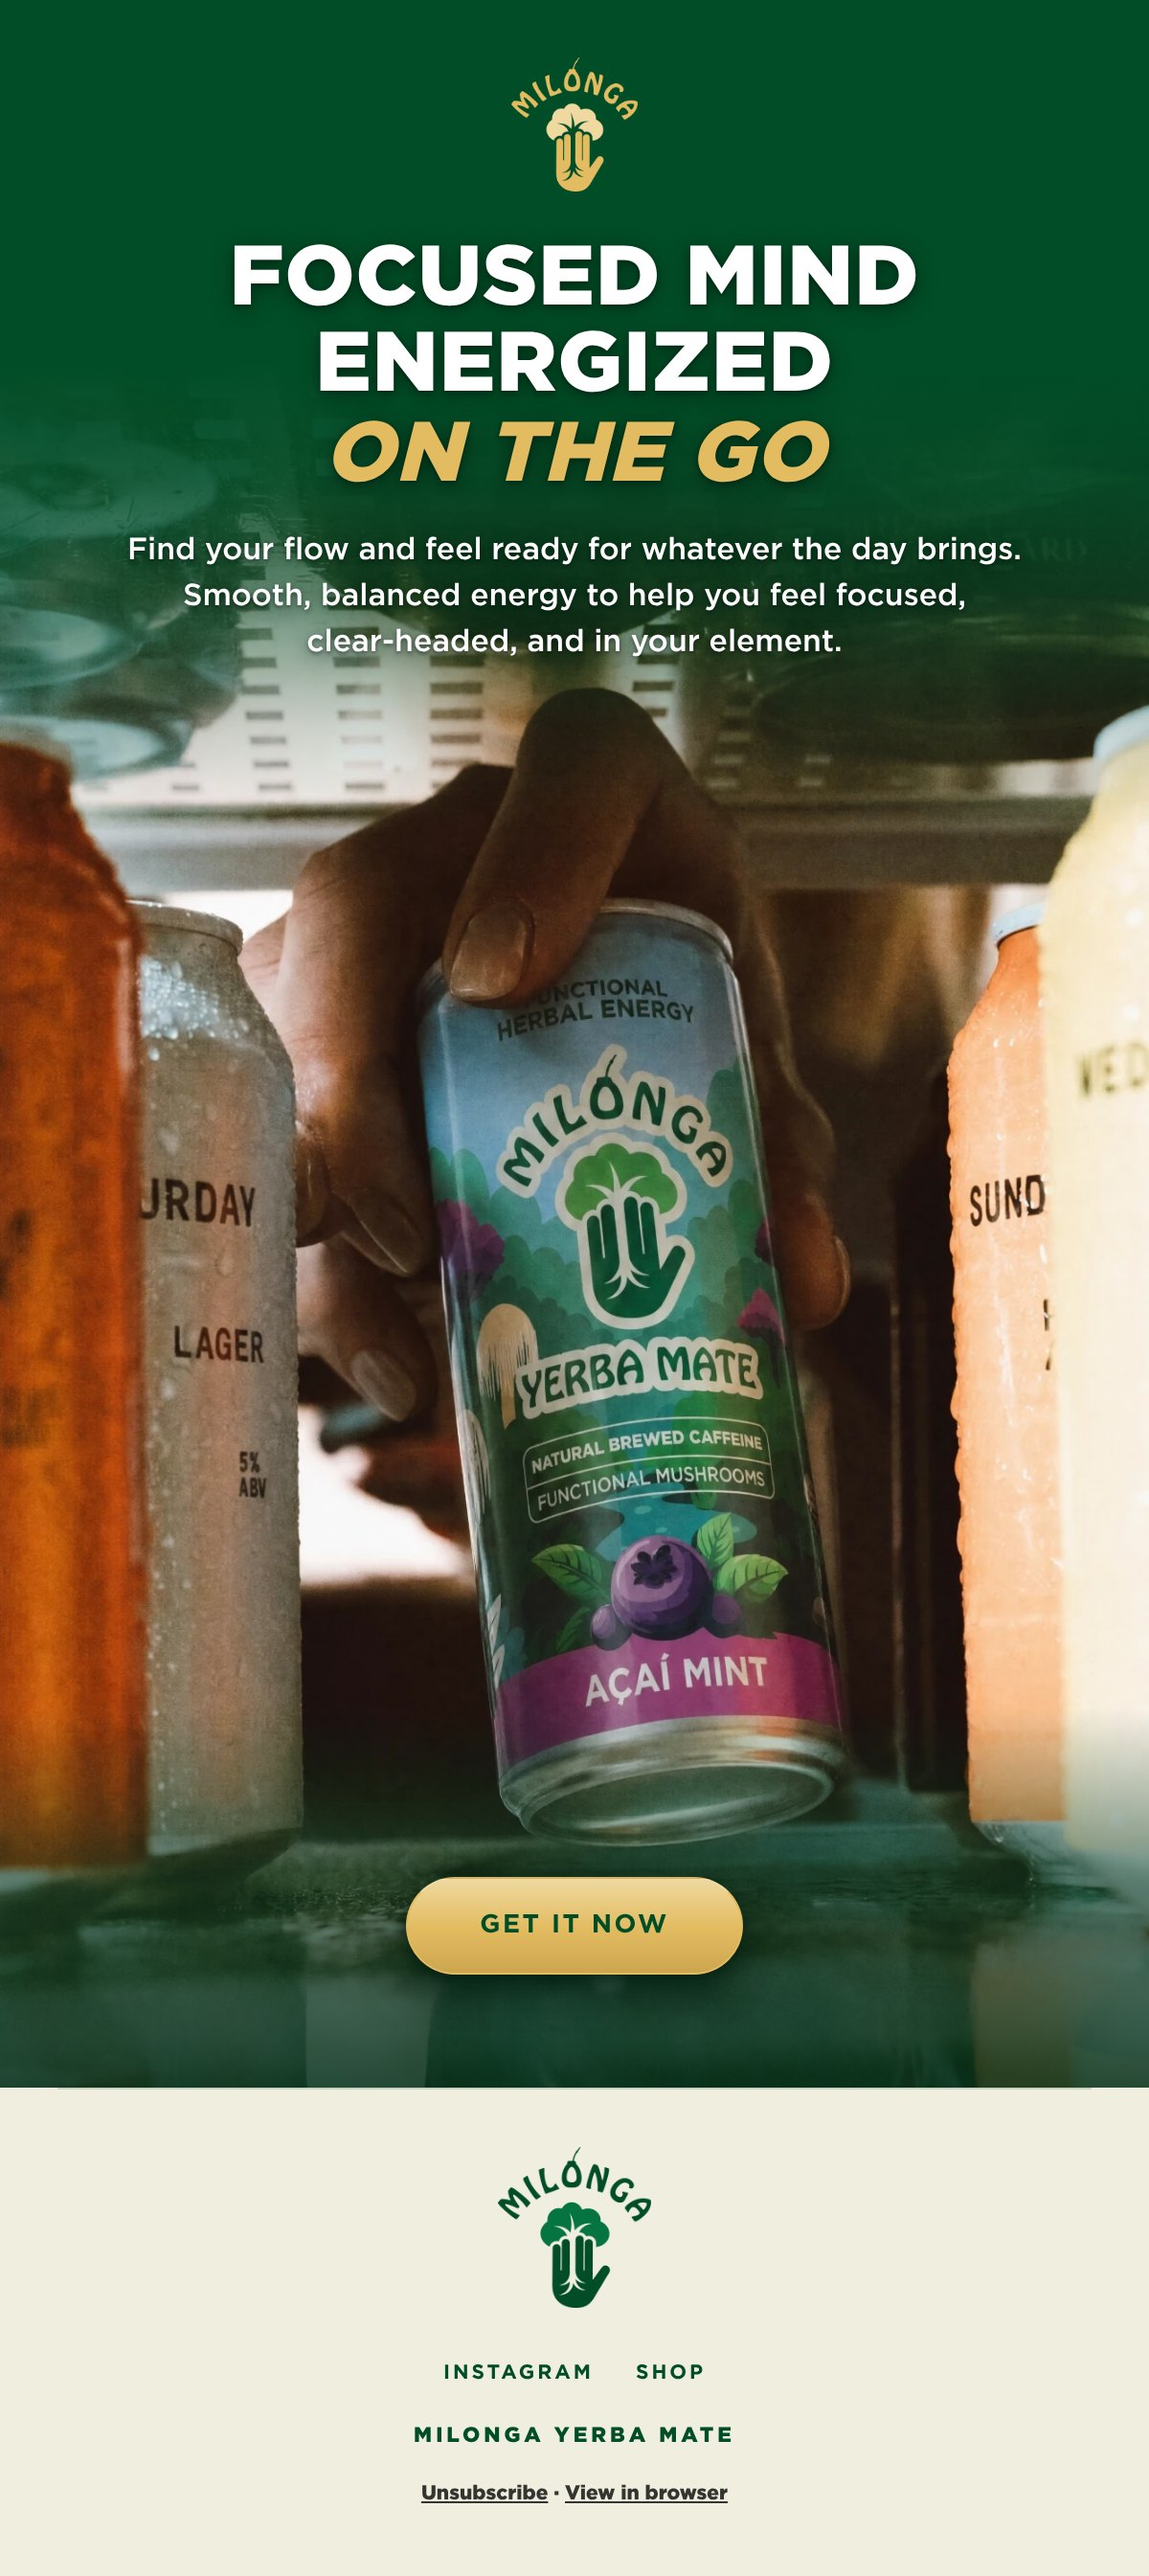
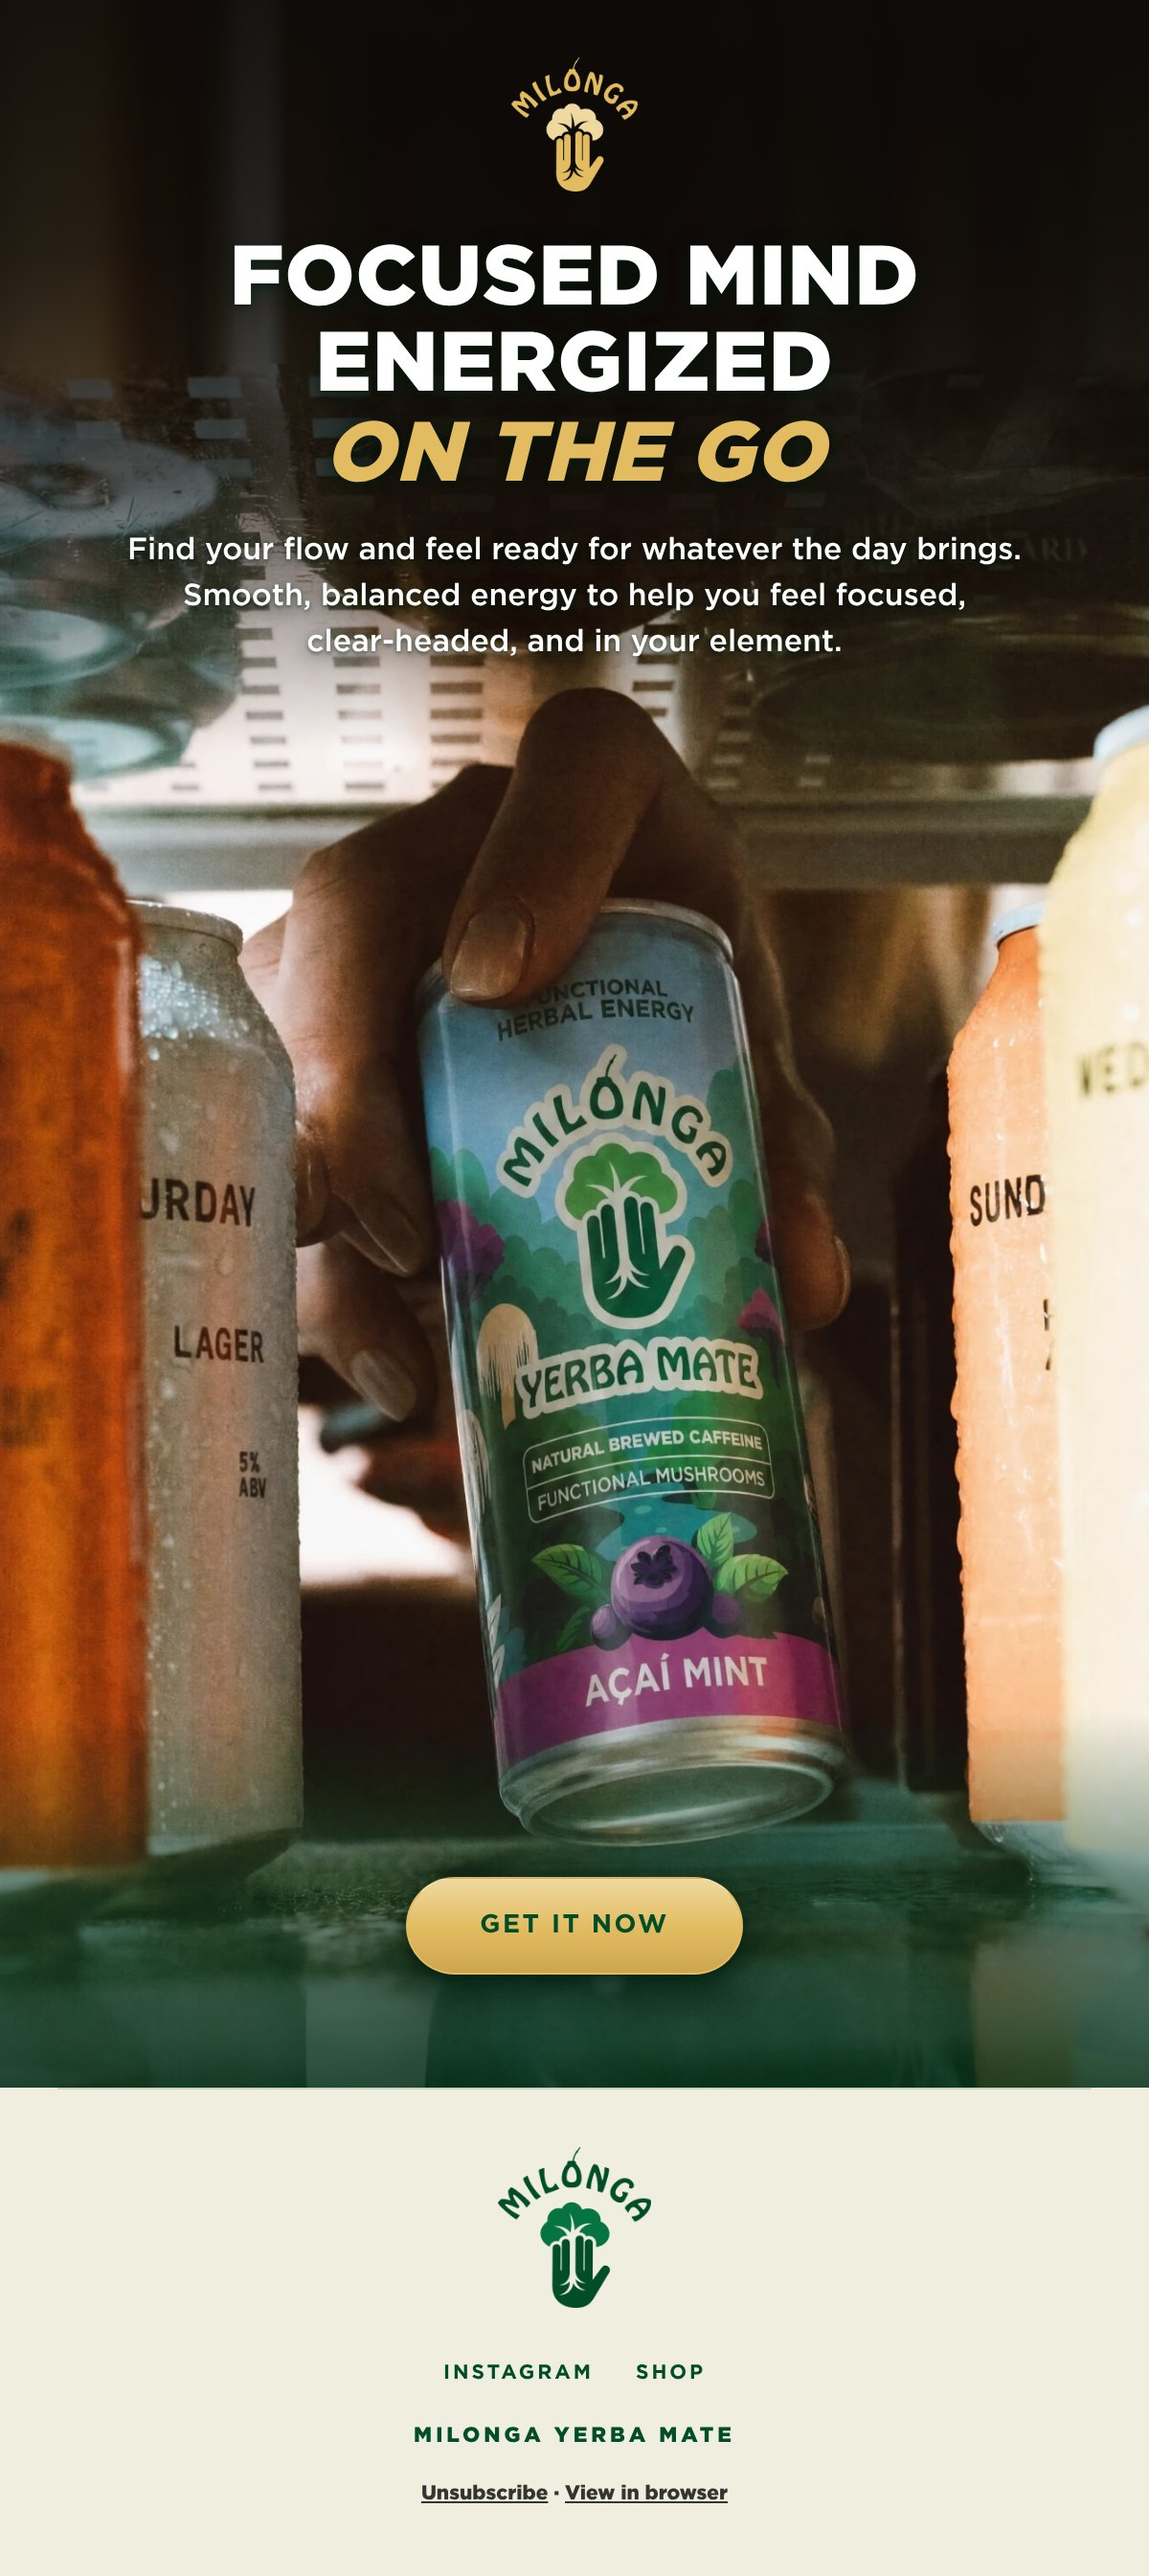
email: Lion's Mane on the go — dark grade at the head, not green
The fridge is extended upward from its own top rows and the head takes a
warm near-black grade sampled from the photograph, clearing above the hand.

Claude-Session: https://claude.ai/code/session_01NhEtXPnfeCJfN73SqBkUZ5

Changed region(s): [[0.0, 0.0, 1.0, 0.3123], [0.0925, 0.281, 0.1233, 0.3123]]

diff --git a/email-ds/emails/on-the-go.jsx b/email-ds/emails/on-the-go.jsx
@@ -12,10 +12,11 @@ const FONT = 'Gotham, Montserrat, sans-serif';
 
 // The fridge photograph is 1333 x 2000, drawn 600 wide: 900 units tall.
 const PHOTO_H = 900;
-// Forest above the photograph. The hand enters the frame about 170 units
-// down and the type needs about 330, so the section starts on green and the
-// photograph's dark top shelf feathers up into it — the type sits across the
-// seam and the hand stays clear.
+// Room above the photograph. The hand enters the frame about 170 units
+// down and the type needs about 330, so the fridge is extended HEAD units
+// upward from its own top rows (can-acai-mint-fridge-tall.jpg) and a dark
+// grade in the photograph's own warm near-black — not green (Bernat) —
+// holds the type and lets go above the hand.
 const HEAD = 190;
 // The button: under the can, on the glass of the shelf it was lifted from.
 const CTA_TOP = HEAD + 790;
@@ -32,13 +33,13 @@ function OnTheGo({ shopHref = '#shop' }) {
   return h(M.EmailShell, { bg: 'beige' },
 
     // ── 1 · THE OPENER ────────────────────────────────────────────────────
-    h('div', { style: { position: 'relative', height: HEAD + PHOTO_H, overflow: 'hidden', background: FOREST } },
-      h('img', { src: '../public/product/can-acai-mint-fridge.jpg', alt: SECTION_1_ALT,
-        style: { position: 'absolute', top: HEAD, left: 0, display: 'block', width: 600, height: 'auto' } }),
-      // Forest fades into the photograph across its top shelf, and back out
-      // at its foot so the button sits on green-dark glass.
-      h('div', { style: { position: 'absolute', left: 0, right: 0, top: HEAD - 1, height: PHOTO_H + 1,
-        background: `linear-gradient(180deg, ${FOREST} 0%, rgba(0,77,39,0.86) 7%, rgba(0,77,39,0.55) 14%, rgba(0,53,27,0.18) 21%, rgba(0,53,27,0) 27%, rgba(0,53,27,0) 78%, rgba(0,53,27,0.55) 88%, rgba(0,45,23,0.85) 100%)` } }),
+    h('div', { style: { position: 'relative', height: HEAD + PHOTO_H, overflow: 'hidden', background: '#0D0B09' } },
+      h('img', { src: '../public/product/can-acai-mint-fridge-tall.jpg', alt: SECTION_1_ALT,
+        style: { position: 'absolute', top: 0, left: 0, display: 'block', width: 600, height: 'auto' } }),
+      // The dark grade: the fridge's own warm near-black at the head, clear
+      // by the hand. The foot still darkens so the button sits on dark glass.
+      h('div', { style: { position: 'absolute', inset: 0,
+        background: 'linear-gradient(180deg, rgba(13,11,9,0.94) 0%, rgba(13,11,9,0.86) 12%, rgba(13,11,9,0.66) 22%, rgba(13,11,9,0.32) 29%, rgba(13,11,9,0) 36%, rgba(0,53,27,0) 82%, rgba(0,53,27,0.55) 91%, rgba(0,45,23,0.85) 100%)' } }),
       h('div', { style: { position: 'absolute', top: 30, left: 36, right: 36, textAlign: 'center',
         textShadow: '0 2px 10px rgba(0,26,13,0.6), 0 1px 2px rgba(0,26,13,0.5)' } },
         h(M.Logo, { tone: 'gold', variant: 'primary', height: 70 }),
